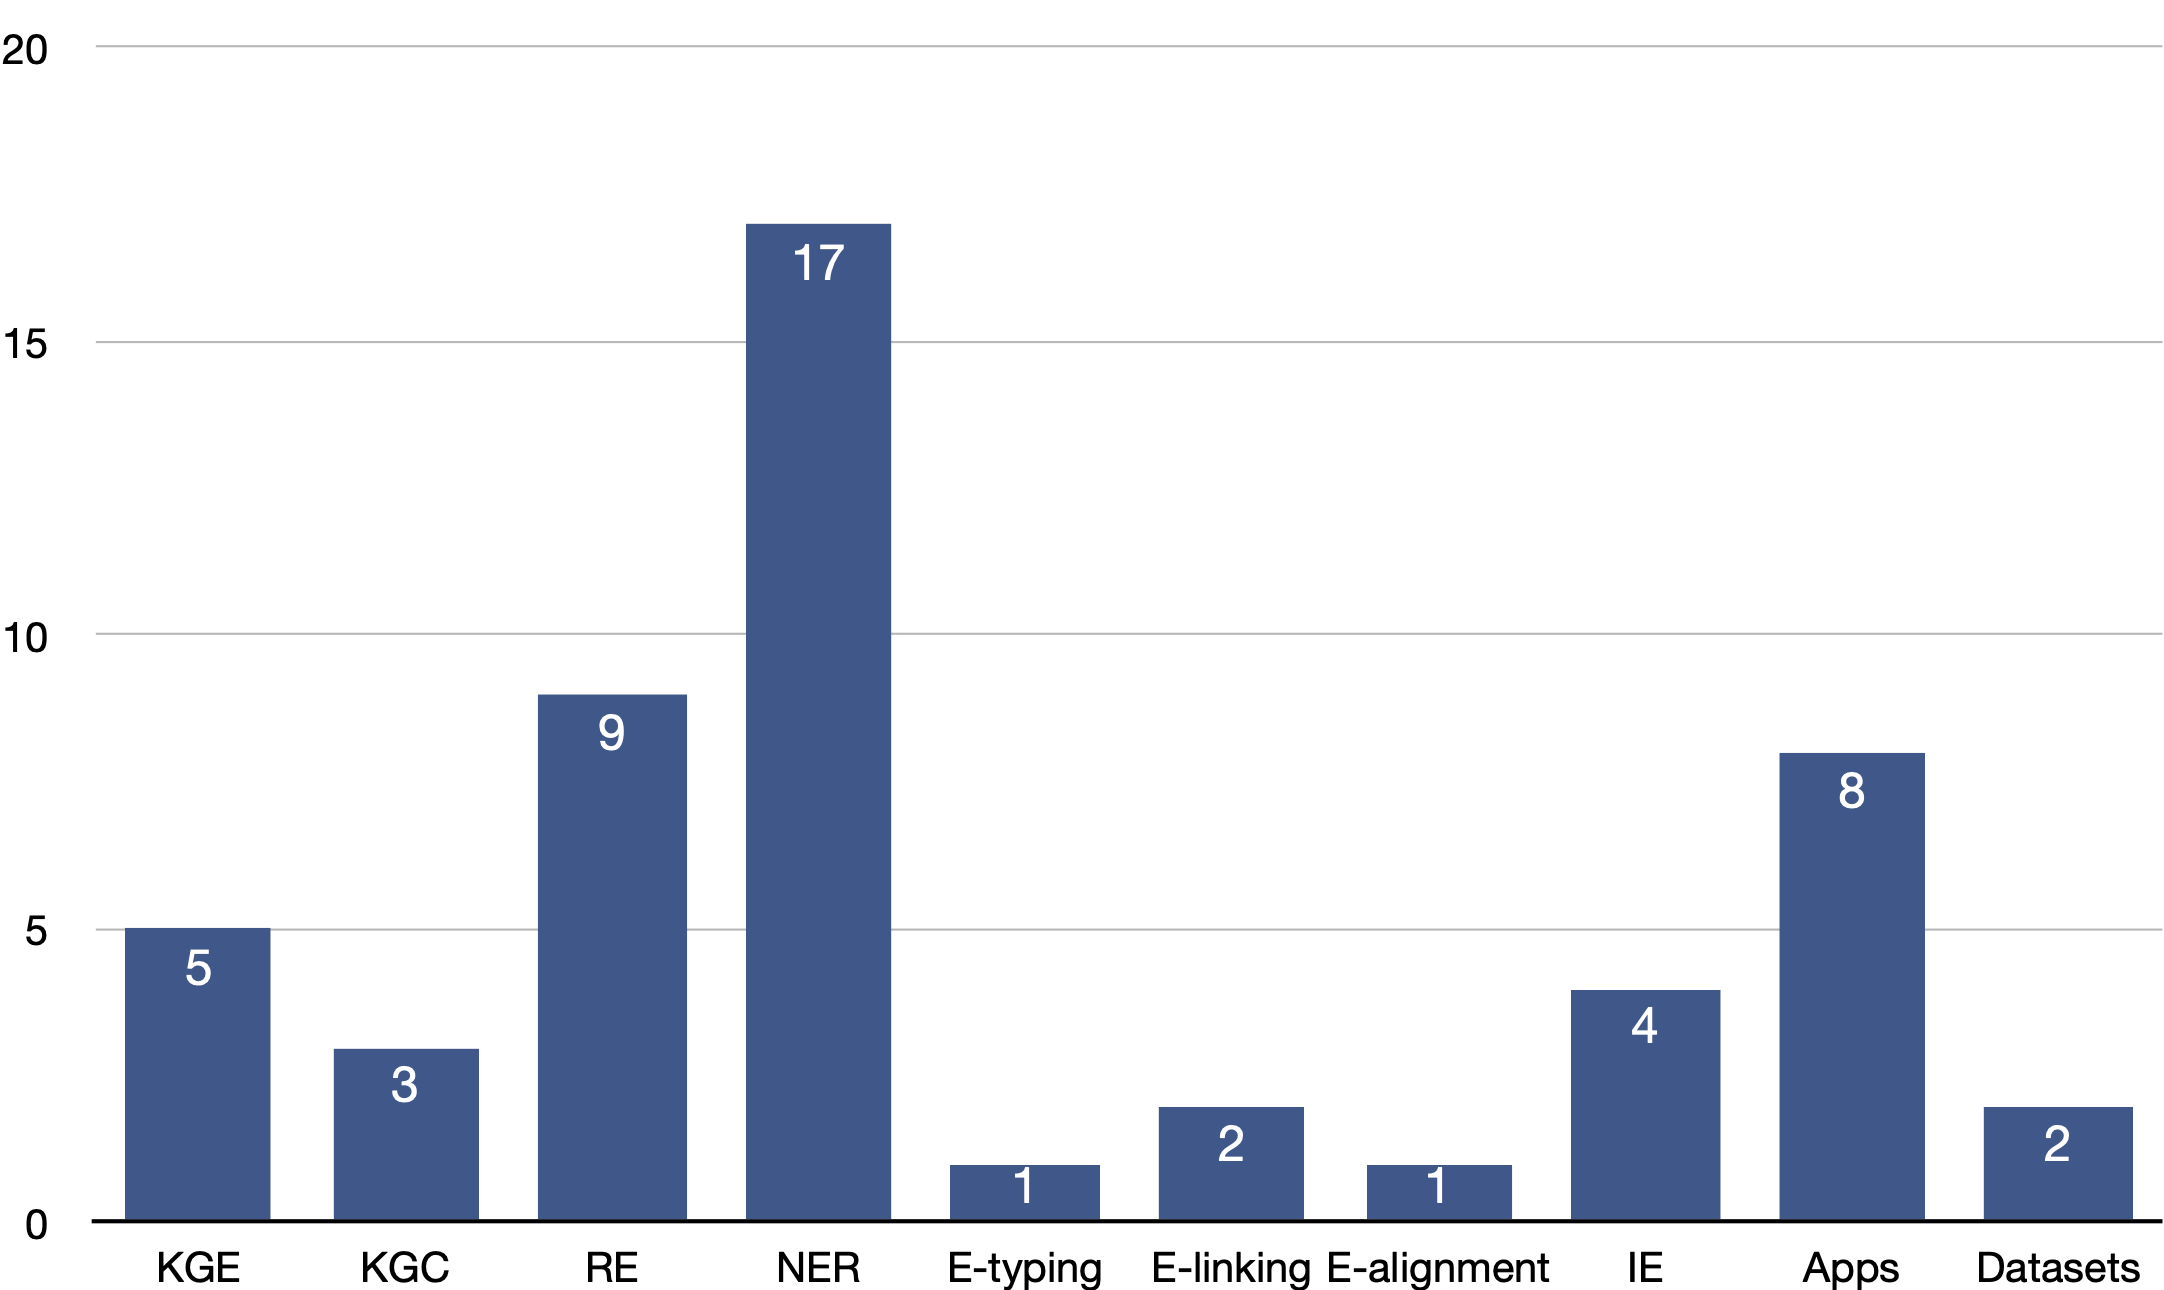
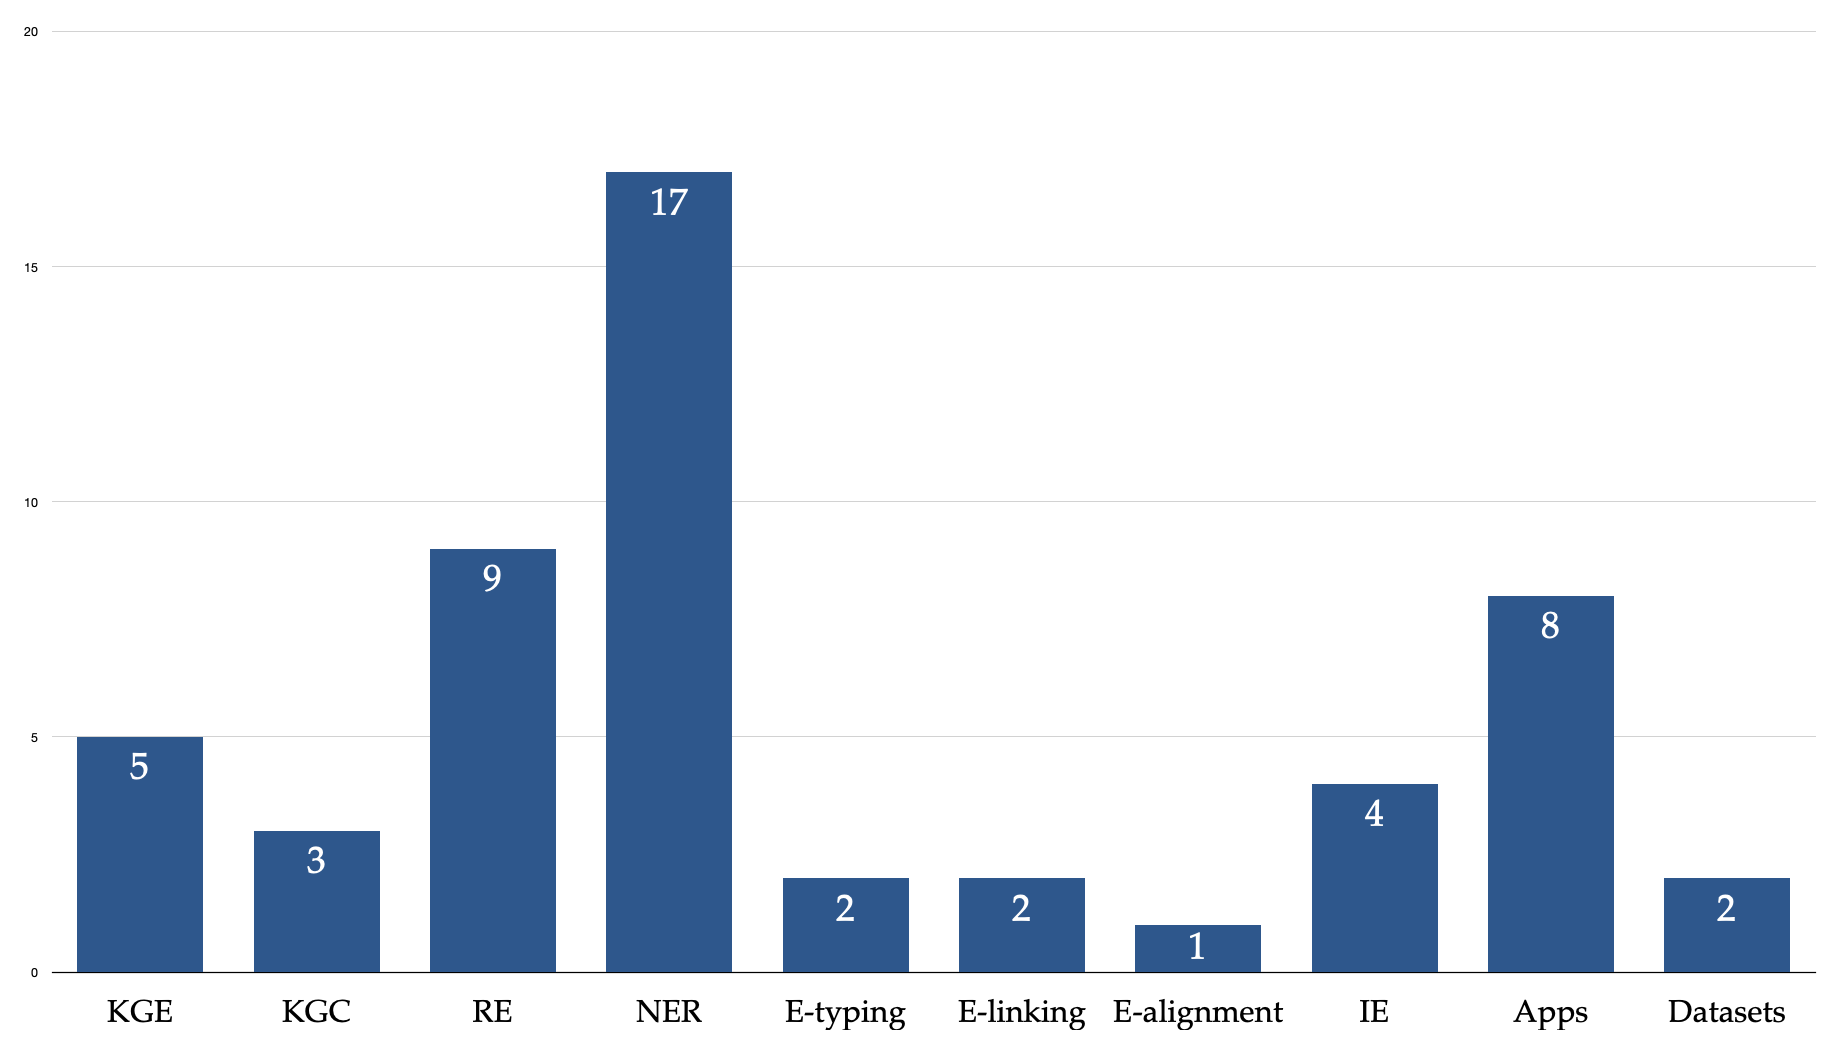
fix counts

diff --git a/conferences/acl20.md b/conferences/acl20.md
@@ -5,28 +5,33 @@ Knowledge graph embedding and completion are still hot topics. Named entity reco
 
 ![bar-chart](acl20-counts.png)
 
+Here lists papers and quick notes about knowledge graphs, information extraction, and knowledge-aware NLP applications that appear in the 58th Annual Meeting of the Association for Computational Linguistics (ACL 2020). 
+Knowledge graph embedding and completion are still hot topics. Named entity recognition is the most extensively studied topic in this year's ACL conference, with 17 papers accepted. Knowledge-aware or knowledge-guided applications such as sentiment analysis and text generation are also exciting directions. 
+
+![bar-chart]({{ site.url }}/img/posts/acl20-counts.png)
+
 
 ## Knowledge Graph Embedding
 __Low-Dimensional Hyperbolic Knowledge Graph Embeddings__
 _Ines Chami, Adva Wolf, Da-Cheng Juan, Frederic Sala, Sujith Ravi and Christopher Ré_ [[Paper](https://arxiv.org/abs/2005.00545)] [[Code](https://github.com/tensorflow/neural-structured-learning/tree/master/research/kg_hyp_emb)]
-> hyperbolic embedding for high-fidelity and parsimonious representations
-> simultaneously capture hierarchical and logical patterns
-> hyperbolic reflections and rotations with attention to model complex relational patterns 
+> hyperbolic embedding for high-fidelity and parsimonious representations;  
+> simultaneously capture hierarchical and logical patterns;  
+> hyperbolic reflections and rotations with attention to model complex relational patterns  
 
 __Orthogonal Relation Transforms with Graph Context Modeling for Knowledge Graph Embedding__. 
 _Yun Tang, Jing Huang, Guangtao Wang, Xiaodong He and Bowen Zhou_ [[Paper](https://arxiv.org/abs/1911.04910)]
-> extend the RotatE from 2D complex domain to high dimensional space with orthogonal transforms
+> extend the RotatE from 2D complex domain to high dimensional space with orthogonal transforms;  
 > graph context is integrated into distance scoring functions
 
 __SEEK: Segmented Embedding of Knowledge Graphs__
 _Wentao Xu, Shun Zheng, Liang He, Bin Shao, Jian Yin, Tie-Yan Liu_. [[Paper](https://arxiv.org/abs/2005.00856)] [[Code](https://github.com/Wentao-Xu/SEEK)]
-> lightweight modeling framework
-> 1) facilitating sufficient feature interactions; 
+> lightweight modeling framework  
+> 1) facilitating sufficient feature interactions;  
 > 2) preserving both symmetry and antisymmetry properties of relations.
 
 __ReInceptionE: Relation-Aware Inception Network with Joint Local-Global Structural Information for Knowledge Graph Embedding__
 _Zhiwen Xie, Guangyou Zhou, Jin Liu and Jimmy Xiangji Huang_. [[Paper](https://www.aclweb.org/anthology/2020.acl-main.526.pdf)]
-> Inception network to learn query embedding, aiming to increase the interaction between head and relation embeddings
+> Inception network to learn query embedding, aiming to increase the interaction between head and relation embeddings;  
 > a relation-aware attention mechanism to enrich the query embedding with the local neighborhood and global entity information
 
 __Knowledge Graph Embedding Compression__
@@ -55,7 +60,7 @@ _Zhepei Wei, Jianlin Su, Yue Wang, Yuan Tian and Yi Chang_.
 
 __Dialogue-Based Relation Extraction__
 _Dian Yu, Kai Sun, Claire Cardie and Dong Yu_. [[Paper](https://arxiv.org/pdf/2004.08056.pdf)] [[Code+data](https://dataset.org/dialogre/)]
-> the first human-annotated dialogue-based relation extraction dataset DialogRE
+> the first human-annotated dialogue-based relation extraction dataset DialogRE;  
 > a new metric 
 
 __Exploiting the Syntax-Model Consistency for Neural Relation Extraction__
@@ -69,12 +74,12 @@ _Christoph Alt, Aleksandra Gabryszak and Leonhard Hennig_ [[Paper](https://arxiv
 
 __Reasoning with Latent Structure Refinement for Document-Level Relation Extraction__
 _Guoshun Nan, Zhijiang Guo, Ivan Sekulic and Wei Lu_ [[Paper](https://arxiv.org/pdf/2005.06312.pdf)]
-> empowers the relational reasoning across sentences by automatically inducing the latent document-level graph
+> empowers the relational reasoning across sentences by automatically inducing the latent document-level graph;  
 > a refinement strategy, which enables the model to incrementally aggregate relevant information for multi-hop reasoning
 
 __Relabel the Noise: Joint Extraction of Entities and Relations via Cooperative Multiagents__
 _Daoyuan Chen, Yaliang Li, Kai Lei and Ying Shen_ [[Paper](https://arxiv.org/pdf/2004.09930.pdf)]
-> consider the problem of shifted label distribution
+> consider the problem of shifted label distribution;  
 > jointly extract entity and relation through a group of cooperative multiagents
 
 __TACRED Revisited: A Thorough Evaluation of the TACRED Relation Extraction Task__
@@ -110,7 +115,7 @@ _Chen Jia and Yue Zhang_. [[Paper](https://www.aclweb.org/anthology/2020.acl-mai
 
 __Named Entity Recognition without Labelled Data: A Weak Supervision Approach__
 _Pierre Lison, Jeremy Barnes, Aliaksandr Hubin and Samia Touileb_ [[Paper](https://arxiv.org/pdf/2004.14723.pdf)]
-> a broad spectrum of labelling functions to automatically annotate texts from the target domain
+> a broad spectrum of labelling functions to automatically annotate texts from the target domain;  
 > a hidden Markov model which captures the varying accuracies and confusions of the labelling functions
 
 __Simplify the Usage of Lexicon in Chinese NER__
@@ -162,10 +167,6 @@ _Feng Hou, Ruili Wang, Jun He and Yi Zhou_. [[Paper](https://www.aclweb.org/anth
 ## Entity Alignment
 __Neighborhood Matching Network for Entity Alignment__
 _Yuting Wu, Xiao Liu, Yansong Feng, Zheng Wang and Dongyan Zhao_ [[Paper](https://arxiv.org/pdf/2005.05607.pdf)]
-> estimates the similarities between entities to capture both the topological structure and the neighborhood difference
-> uses a novel graph sampling method to distill a discriminative neighborhood for each entity
-> adopts a cross-graph neighborhood matching module to jointly encode the neighborhood difference for a given entity pair
-
 
 ## Information Extraction
 __A Joint Neural Model for Information Extraction with Global Features__
@@ -174,8 +175,7 @@ _Ying Lin, Heng Ji, Fei Huang and Lingfei Wu_ [[Paper](https://blender.cs.illino
 
 __IMoJIE: Iterative Memory-Based Joint Open Information Extraction__
 _Keshav Kolluru, Samarth Aggarwal, Vipul Rathore, Mausam and Soumen Chakrabarti_ [[Paper](https://arxiv.org/pdf/2005.08178.pdf)]
-> an extension to CopyAttention 
-> produces the next extraction conditioned on all previously extracted tuples
+> an extension to CopyAttention; produces the next extraction conditioned on all previously extracted tuples
 
 __TXtract: Taxonomy-Aware Knowledge Extraction for Thousands of Product Categories__
 _Giannis Karamanolakis, Jun Ma and Xin Luna Dong_. [[Paper](https://www.aclweb.org/anthology/2020.acl-main.751.pdf)]
